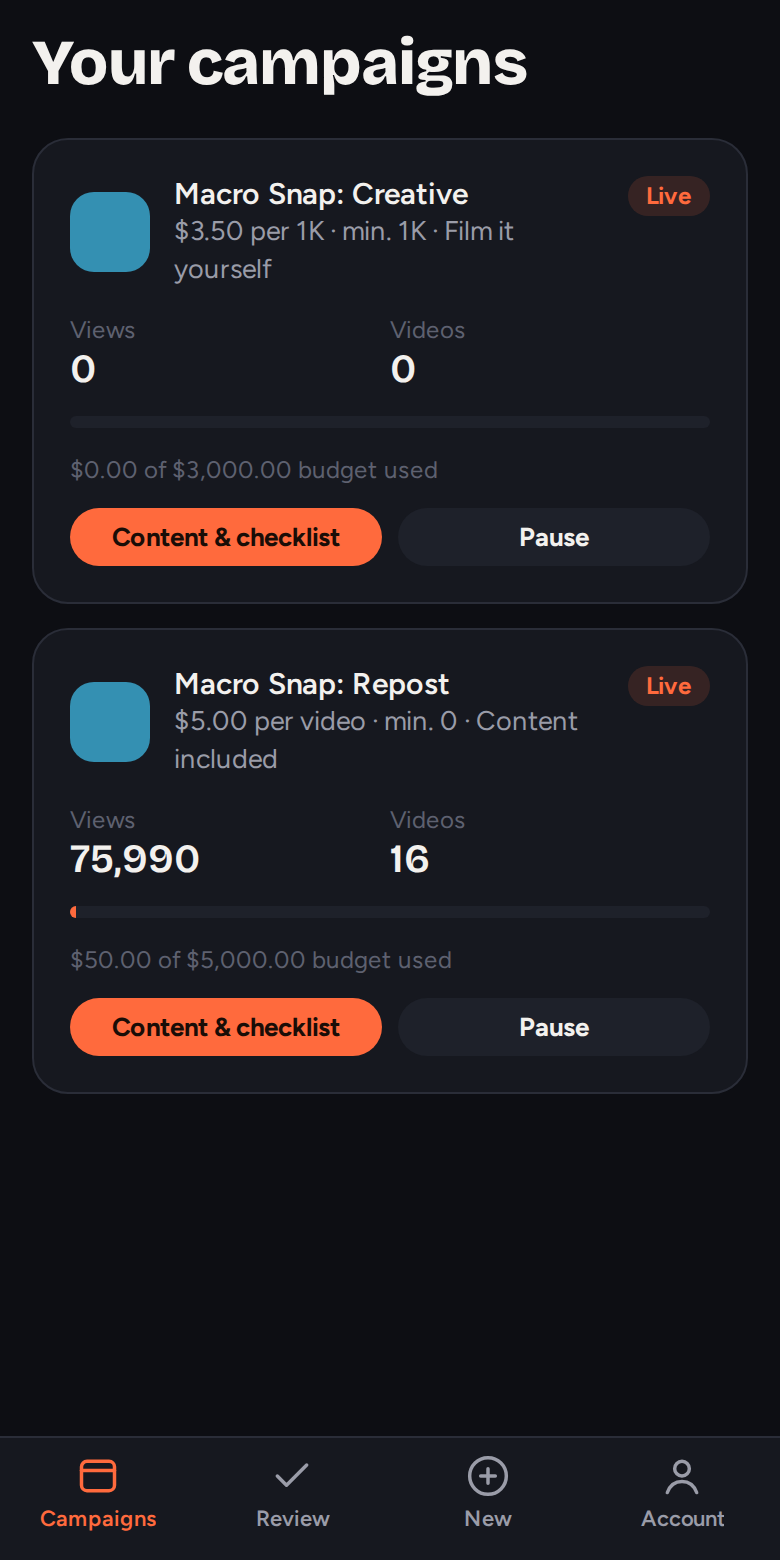
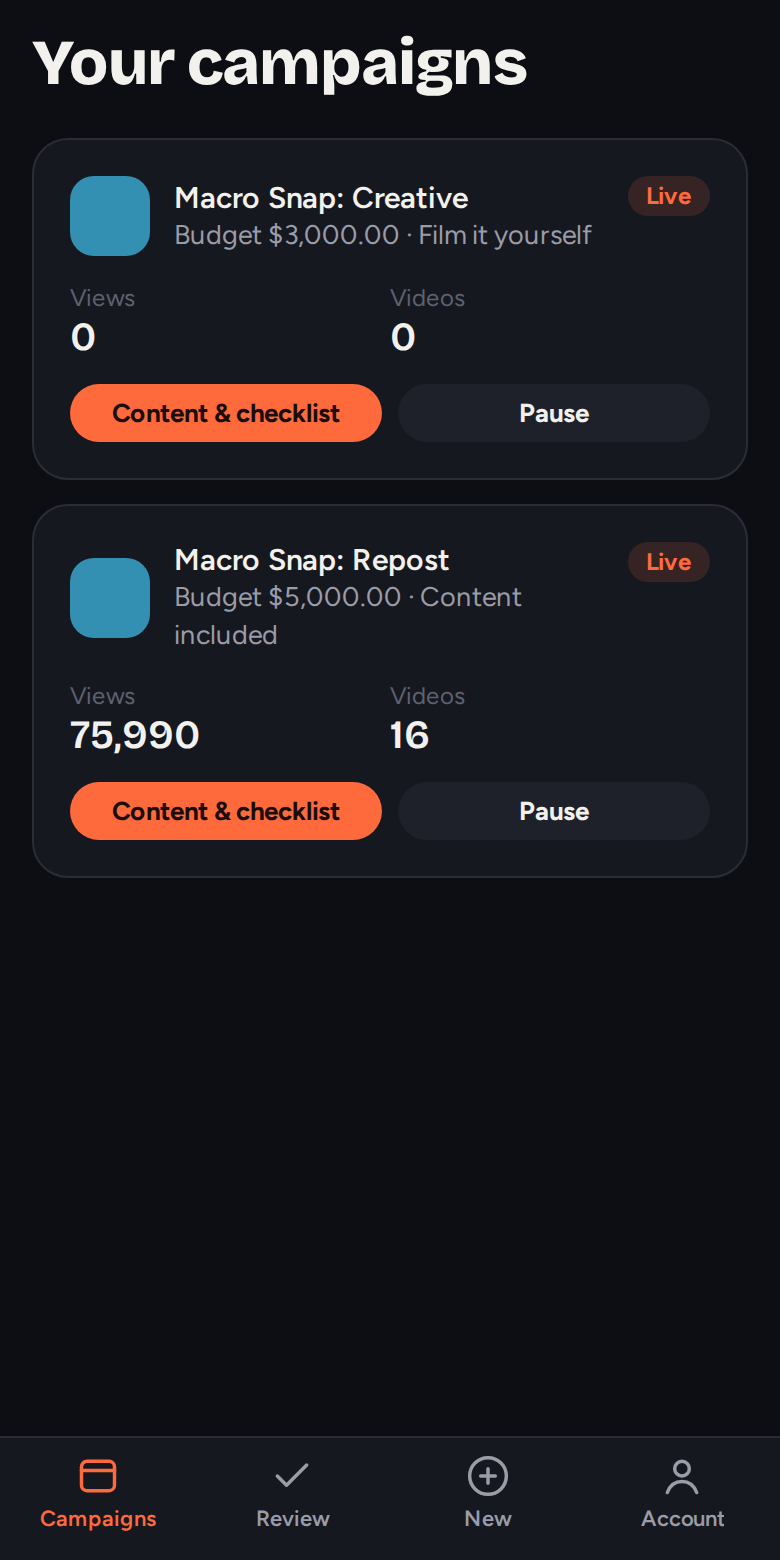
Clients pay one budget: hide creator pay and spend from brands, homepage without rates
- Brand view shows budget, views and videos only; campaign_stats hides
  spent_cents from non-admins (0014)
- Brand campaign requests only ask name, brief and budget; pay is set by admin
- Homepage: 'Let's promote your campaign' instead of pricing, new brand screenshot

Claude-Session: https://claude.ai/code/session_01Uk6NG1gYvfXL5HbW9h3W6R

diff --git a/public/home.html b/public/home.html
@@ -3,11 +3,11 @@
 <head>
 <meta charset="utf-8">
 <meta name="viewport" content="width=device-width, initial-scale=1, viewport-fit=cover">
-<title>Hypiva: TikTok reach for brands, paid per result</title>
-<meta name="description" content="Hypiva's creator network posts your content across many real TikTok accounts. Pay per 1,000 views or a fixed price per video, only for videos you approve.">
+<title>Hypiva: TikTok reach for apps and brands</title>
+<meta name="description" content="Hypiva's creator network posts your content across many real TikTok accounts. You set the budget, we deliver the reach, and you see every view.">
 <meta name="theme-color" content="#0D0E13">
-<meta property="og:title" content="Hypiva: TikTok reach for brands, paid per result">
-<meta property="og:description" content="Real creators. Real views. Pay per result.">
+<meta property="og:title" content="Hypiva: TikTok reach for apps and brands">
+<meta property="og:description" content="Real creators. Real views. One budget.">
 <meta property="og:image" content="https://hypiva.com/landing/og.png">
 <link rel="icon" href="/landing/icon.png">
 <link rel="apple-touch-icon" href="/landing/icon.png">
@@ -128,7 +128,7 @@ footer a:hover{color:var(--text)}
 <nav class="top" aria-label="Main">
   <div class="wrap">
     <a class="brand" href="/"><img src="/landing/icon.png" alt=""><span>hyp<b>iva</b></span></a>
-    <div class="links"><a href="#how">How it works</a><a href="#pricing">Pricing</a><a href="#why">Why Hypiva</a><a href="#creators">Creators</a><a href="#faq">FAQ</a></div>
+    <div class="links"><a href="#how">How it works</a><a href="#work">Work with us</a><a href="#why">Why Hypiva</a><a href="#creators">Creators</a><a href="#faq">FAQ</a></div>
     <a class="login" href="/sign-in">Log in</a>
     <a class="btn primary cta" href="mailto:patrick@hypiva.com?subject=Campaign%20on%20Hypiva">Launch a campaign</a>
   </div>
@@ -138,19 +138,19 @@ footer a:hover{color:var(--text)}
   <div class="wrap hero">
     <div>
       <div class="eyebrow">TikTok reach for apps &amp; brands</div>
-      <h1>Your product on hundreds of feeds. <span class="hl">Pay only for results.</span></h1>
-      <p class="lead">Our creator network posts your content across many real TikTok accounts. You pay per 1,000 views or a fixed price per video, and only for videos you approve.</p>
+      <h1>Your product on hundreds of feeds. <span class="hl">One budget, real reach.</span></h1>
+      <p class="lead">Our creator network posts your content across many real TikTok accounts. You set one campaign budget. We handle the creators, the content and the posting, and you see every view.</p>
       <div class="ctas">
         <a class="btn primary" href="mailto:patrick@hypiva.com?subject=Campaign%20on%20Hypiva">Launch a campaign</a>
         <a class="btn ghost" href="#how">See how it works</a>
       </div>
     </div>
-    <div class="glow"><div class="phone"><img src="/landing/brand-phone.png" alt="The Hypiva brand dashboard: live campaigns with views, videos and budget used" width="390" height="780"></div></div>
+    <div class="glow"><div class="phone"><img src="/landing/brand-phone.png" alt="The Hypiva brand dashboard: live campaigns with views and videos" width="390" height="780"></div></div>
   </div>
 
   <div class="wrap facts" aria-label="Key facts">
-    <div class="fact"><b>Pay per result</b><span>Per 1K views or per video</span></div>
-    <div class="fact"><b>You approve</b><span>Every video, before it counts</span></div>
+    <div class="fact"><b>One budget</b><span>No surprises, no extra costs</span></div>
+    <div class="fact"><b>Quality checked</b><span>Every video is reviewed</span></div>
     <div class="fact"><b>Live tracking</b><span>Views update automatically</span></div>
     <div class="fact"><b>10 languages</b><span>Reach beyond one market</span></div>
   </div>
@@ -159,54 +159,52 @@ footer a:hover{color:var(--text)}
     <div class="wrap">
       <div class="sec-h"><div class="eyebrow">How it works</div><h2>Live in days, not months</h2><p>You bring the product and the message. We handle the creators, the posting and the tracking.</p></div>
       <div class="steps">
-        <div class="step"><div class="n">1</div><h3>Brief &amp; budget</h3><p>Tell us what to promote, your budget and how you want to pay. We turn it into ready-to-post content with captions and hashtags, in every language you need.</p></div>
+        <div class="step"><div class="n">1</div><h3>Brief &amp; budget</h3><p>Tell us what to promote and what you want to spend. We turn it into ready-to-post content with captions and hashtags, in every language you need.</p></div>
         <div class="step"><div class="n">2</div><h3>Creators post</h3><p>Verified creators post your content on their TikTok accounts. Each account gets content it has not posted before, so feeds stay fresh.</p></div>
-        <div class="step"><div class="n">3</div><h3>You see the results</h3><p>Views are tracked automatically on every video. You see views, videos and budget used live, and approve every video before it counts.</p></div>
+        <div class="step"><div class="n">3</div><h3>You see the results</h3><p>Views are tracked automatically on every video. With your own login you see views and videos per campaign, live.</p></div>
       </div>
     </div>
   </section>
 
-  <section id="pricing" style="padding-top:20px">
+  <section id="work" style="padding-top:20px">
     <div class="wrap">
-      <div class="sec-h"><div class="eyebrow">Pricing</div><h2>Two simple ways to pay</h2><p>Pick what fits your campaign. You set a budget, and you never pay for videos you did not approve.</p></div>
+      <div class="sec-h"><div class="eyebrow">Work with us</div><h2>Let's promote your campaign</h2><p>Tell us what you want to promote and what you want to achieve. We come back with a plan: which content, how many creators and which countries.</p></div>
       <div class="plans">
         <div class="plan hot">
-          <span class="tag">Most popular</span>
-          <h3>Per 1,000 views</h3>
-          <p class="muted">You pay for the reach you actually get.</p>
+          <span class="tag">We take care of it</span>
+          <h3>Everything included</h3>
+          <p class="muted">You bring the product. We do the rest.</p>
           <ul>
-            <li>A video counts once it reaches a minimum, for example 1,000 views</li>
-            <li>Views are counted per video, never added up</li>
-            <li>Stops at your budget</li>
+            <li>Creators, content, posting and tracking included</li>
+            <li>Content in every language you need</li>
+            <li>Start small with a test, scale up what works</li>
           </ul>
-          <div class="example">Example: <b>a video with 25,000 views</b> at your rate per 1K. A video with 600 views costs nothing.</div>
         </div>
         <div class="plan">
-          <span class="tag">Predictable</span>
-          <h3>Fixed per video</h3>
-          <p class="muted">A set price for every approved post.</p>
+          <span class="tag">What you get</span>
+          <h3>Reach you can see</h3>
+          <p class="muted">Your own dashboard, live.</p>
           <ul>
-            <li>Know exactly what each post costs</li>
-            <li>Optional minimum views per video</li>
-            <li>Great for launches and volume</li>
+            <li>Views and videos per campaign, updated automatically</li>
+            <li>Every video checked before it counts</li>
+            <li>Pause or extend a campaign any time</li>
           </ul>
-          <div class="example">Example: <b>100 approved videos</b> at a fixed price each, whatever their views.</div>
         </div>
       </div>
-      <p class="muted" style="margin-top:18px">Rates depend on your market and volume. <a href="mailto:patrick@hypiva.com?subject=Pricing%20for%20Hypiva" style="color:var(--accent);font-weight:700">Ask for a quote →</a></p>
+      <div class="ctas" style="margin-top:26px"><a class="btn primary" href="mailto:patrick@hypiva.com?subject=Campaign%20on%20Hypiva">Let's promote your campaign</a></div>
     </div>
   </section>
 
   <section id="why">
     <div class="wrap">
-      <div class="sec-h"><div class="eyebrow">Why Hypiva</div><h2>Built so every dollar is accounted for</h2></div>
+      <div class="sec-h"><div class="eyebrow">Why Hypiva</div><h2>Built so your budget works hard</h2></div>
       <div class="feats">
         <div class="feat"><div class="ic"><svg viewBox="0 0 24 24" fill="none" stroke-width="2" stroke-linecap="round" stroke-linejoin="round"><path d="M12 3l7 3v5c0 5-3.5 8.5-7 10-3.5-1.5-7-5-7-10V6z"/><path d="M9 12l2 2 4-4"/></svg></div><h3>Verified accounts</h3><p>Creators prove they own each TikTok account, and every video is checked against the account it was posted from.</p></div>
         <div class="feat"><div class="ic"><svg viewBox="0 0 24 24" fill="none" stroke-width="2" stroke-linecap="round" stroke-linejoin="round"><path d="M3 17l6-6 4 4 8-8"/><path d="M14 7h7v7"/></svg></div><h3>Automatic view tracking</h3><p>Views are read from TikTok several times a day. No screenshots, no guessing.</p></div>
-        <div class="feat"><div class="ic"><svg viewBox="0 0 24 24" fill="none" stroke-width="2" stroke-linecap="round" stroke-linejoin="round"><path d="M20 6L9 17l-5-5"/></svg></div><h3>You approve every video</h3><p>Nothing counts until it is approved, so off-brand posts never cost you.</p></div>
+        <div class="feat"><div class="ic"><svg viewBox="0 0 24 24" fill="none" stroke-width="2" stroke-linecap="round" stroke-linejoin="round"><path d="M20 6L9 17l-5-5"/></svg></div><h3>Every video checked</h3><p>Each video is reviewed before it counts, so off-brand posts never make it into your results.</p></div>
         <div class="feat"><div class="ic"><svg viewBox="0 0 24 24" fill="none" stroke-width="2" stroke-linecap="round" stroke-linejoin="round"><circle cx="12" cy="12" r="9"/><path d="M3 12h18M12 3a14 14 0 0 1 0 18M12 3a14 14 0 0 0 0 18"/></svg></div><h3>Many languages</h3><p>The same campaign in English, Dutch, German, French, Spanish and more. Each creator posts in their own language.</p></div>
-        <div class="feat"><div class="ic"><svg viewBox="0 0 24 24" fill="none" stroke-width="2" stroke-linecap="round" stroke-linejoin="round"><rect x="3" y="6" width="18" height="14" rx="3"/><path d="M3 10h18"/></svg></div><h3>Budget control</h3><p>Set a budget per campaign and see exactly how much is used. Pause any time.</p></div>
-        <div class="feat"><div class="ic"><svg viewBox="0 0 24 24" fill="none" stroke-width="2" stroke-linecap="round" stroke-linejoin="round"><rect x="4" y="3" width="16" height="18" rx="2"/><path d="M8 8h8M8 12h8M8 16h5"/></svg></div><h3>Clear reporting</h3><p>Views, videos and spend per campaign in one place, with your own brand login.</p></div>
+        <div class="feat"><div class="ic"><svg viewBox="0 0 24 24" fill="none" stroke-width="2" stroke-linecap="round" stroke-linejoin="round"><rect x="3" y="6" width="18" height="14" rx="3"/><path d="M3 10h18"/></svg></div><h3>One clear budget</h3><p>One amount per campaign, agreed up front. Pause or extend whenever you want.</p></div>
+        <div class="feat"><div class="ic"><svg viewBox="0 0 24 24" fill="none" stroke-width="2" stroke-linecap="round" stroke-linejoin="round"><rect x="4" y="3" width="16" height="18" rx="2"/><path d="M8 8h8M8 12h8M8 16h5"/></svg></div><h3>Clear reporting</h3><p>Views and videos per campaign in one place, with your own brand login.</p></div>
       </div>
     </div>
   </section>
@@ -233,9 +231,9 @@ footer a:hover{color:var(--text)}
       <div class="sec-h"><div class="eyebrow">FAQ</div><h2>Questions brands ask</h2></div>
       <div class="faq">
         <details open><summary>What kind of content do creators post?</summary><p>Mostly faceless slideshows and short clips made from your brief. We prepare the content, captions and hashtags, so every post stays on-message.</p></details>
-        <details><summary>How do you make sure views are real?</summary><p>Creators verify ownership of each TikTok account, every video is matched to its account, and views are read directly from TikTok. You approve each video before it counts.</p></details>
-        <details><summary>What does it cost?</summary><p>You choose per 1,000 views or a fixed price per video, with a budget you set. Send us your goals and we come back with a quote.</p></details>
-        <details><summary>Can I see the results myself?</summary><p>Yes. You get your own login with live views, videos and budget used per campaign, and you can pause a campaign any time.</p></details>
+        <details><summary>How do you make sure views are real?</summary><p>Creators verify ownership of each TikTok account, every video is matched to its account, and views are read directly from TikTok. Every video is checked before it counts.</p></details>
+        <details><summary>What does it cost?</summary><p>Every campaign is different. Send us your product and goal, and we come back with a proposal, from a small test to a large launch. Everything is included.</p></details>
+        <details><summary>Can I see the results myself?</summary><p>Yes. You get your own login with live views and videos per campaign, and you can pause a campaign any time.</p></details>
         <details><summary>Which countries and languages?</summary><p>Creators post in their own language, including English, Dutch, German, French, Spanish, Italian, Portuguese, Polish, Turkish and Arabic.</p></details>
       </div>
     </div>

diff --git a/src/components/CampaignStatsCard.tsx b/src/components/CampaignStatsCard.tsx
@@ -4,7 +4,8 @@ import { num, short, usd } from '../lib/format';
 import { colors } from '../lib/theme';
 import { kindLabel, type Campaign, type CampaignStats } from '../lib/types';
 
-export function CampaignStatsCard({ c, stats, onToggle, onOpen, onEditPay }: { c: Campaign; stats?: CampaignStats; onToggle?: () => void; onOpen?: () => void; onEditPay?: () => void }) {
+/** A campaign with its numbers. forBrand hides what creators are paid: clients see reach, not our costs. */
+export function CampaignStatsCard({ c, stats, onToggle, onOpen, onEditPay, forBrand }: { c: Campaign; stats?: CampaignStats; onToggle?: () => void; onOpen?: () => void; onEditPay?: () => void; forBrand?: boolean }) {
   const spent = stats?.spent_cents ?? 0;
   const pct = Math.min(100, (spent / c.budget_cents) * 100);
   return (
@@ -13,7 +14,7 @@ export function CampaignStatsCard({ c, stats, onToggle, onOpen, onEditPay }: { c
         <View style={{ width: 40, height: 40, borderRadius: 12, backgroundColor: hueFor(c.brand_id) }} />
         <View style={{ flex: 1 }}>
           <T variant="bodyStrong">{c.name}</T>
-          <T variant="muted">{c.fixed_cents != null ? `${usd(c.fixed_cents)} per video` : `${usd(c.cpm_cents)} per 1K`} · min. {short(c.min_views)} · {kindLabel(c.kind)}</T>
+          <T variant="muted">{forBrand ? `Budget ${usd(c.budget_cents)} · ${kindLabel(c.kind)}` : `${c.fixed_cents != null ? `${usd(c.fixed_cents)} per video` : `${usd(c.cpm_cents)} per 1K`} · min. ${short(c.min_views)} · ${kindLabel(c.kind)}`}</T>
         </View>
         <Pill kind={c.status} />
       </Pressable>
@@ -21,14 +22,19 @@ export function CampaignStatsCard({ c, stats, onToggle, onOpen, onEditPay }: { c
         <View style={{ flex: 1 }}><T variant="small">Views</T><T variant="h2">{num(stats?.views ?? 0)}</T></View>
         <View style={{ flex: 1 }}><T variant="small">Videos</T><T variant="h2">{stats?.videos ?? 0}</T></View>
       </View>
+      {forBrand ? null : (
+        <>
       <View style={{ height: 6, backgroundColor: colors.surface2, borderRadius: 6, overflow: 'hidden' }}>
         <View style={{ width: `${pct}%`, height: '100%', backgroundColor: colors.accent }} />
       </View>
       <T variant="small">{usd(spent)} of {usd(c.budget_cents)} budget used</T>
+        </>
+      )}
       <View style={{ flexDirection: 'row', gap: 8 }}>
         {onOpen ? <Button small style={{ flex: 1 }} title="Content & checklist" onPress={onOpen} /> : null}
         {onEditPay ? <Button small style={{ flex: 1 }} kind="ghost" title="Pay & budget" onPress={onEditPay} /> : null}
-        {onToggle ? <Button small style={{ flex: 1 }} kind="ghost" title={c.status === 'live' ? 'Pause' : 'Make live'} onPress={onToggle} /> : null}
+        {onToggle && (!forBrand || c.status === 'live') ? <Button small style={{ flex: 1 }} kind="ghost" title={c.status === 'live' ? 'Pause' : 'Make live'} onPress={onToggle} /> : null}
+        {forBrand && c.status !== 'live' ? <T variant="small" style={{ flex: 1, alignSelf: 'center' }}>The Hypiva team makes it live.</T> : null}
       </View>
     </Card>
   );

diff --git a/src/components/CampaignForm.tsx b/src/components/CampaignForm.tsx
@@ -28,14 +28,14 @@ export function CampaignForm({ brandId, brands, onDone }: { brandId?: string | n
     setError(null);
     if (!brand) return setError('Pick a brand first.');
     if (!name.trim() || !desc.trim()) return setError('Add a name and tell creators what to post.');
-    if (payType === 'views' && !cpmCents) return setError('Enter what you pay per 1,000 views, for example 2.00.');
-    if (payType === 'video' && !fixedCents) return setError('Enter what you pay per video, for example 5.00.');
+    if (brands && payType === 'views' && !cpmCents) return setError('Enter what you pay per 1,000 views, for example 2.00.');
+    if (brands && payType === 'video' && !fixedCents) return setError('Enter what you pay per video, for example 5.00.');
     if (!budgetCents || budgetCents < 5000) return setError('The budget has to be at least $50.');
     setBusy(true);
     const { error: e } = await supabase.from('campaigns').insert({
       status: brands ? 'live' : 'paused',
       brand_id: brand, name: name.trim(), description: desc.trim(), kind,
-      cpm_cents: cpmCents ?? 200, fixed_cents: payType === 'video' ? fixedCents : null,
+      cpm_cents: (brands ? cpmCents : null) ?? 200, fixed_cents: brands && payType === 'video' ? fixedCents : null,
       budget_cents: budgetCents, min_views: Number.isFinite(min) ? min : 1000,
     });
     setBusy(false);
@@ -60,8 +60,15 @@ export function CampaignForm({ brandId, brands, onDone }: { brandId?: string | n
         <T variant="label">Type</T>
         <Chips value={kind} onChange={setKind} options={[{ value: 'ready_to_post', label: 'Content included' }, { value: 'create_your_own', label: 'Film it yourself' }]} />
       </View>
-      <PayFields payType={payType} setPayType={setPayType} cpm={cpm} setCpm={setCpm} fixed={fixed} setFixed={setFixed}
-        budget={budget} setBudget={setBudget} minViews={minViews} setMinViews={setMinViews} />
+      {brands ? (
+        <PayFields payType={payType} setPayType={setPayType} cpm={cpm} setCpm={setCpm} fixed={fixed} setFixed={setFixed}
+          budget={budget} setBudget={setBudget} minViews={minViews} setMinViews={setMinViews} />
+      ) : (
+        <>
+          <Field label="Budget ($)" value={budget} onChangeText={setBudget} keyboardType="decimal-pad" hint="What you want to spend on this campaign. We plan the creators and posts around it." />
+          <T variant="small">After you send it, the Hypiva team checks the campaign and makes it live.</T>
+        </>
+      )}
       {error ? <T variant="muted" style={{ color: '#FF5C7A' }}>{error}</T> : null}
       <Button title="Launch campaign" onPress={create} busy={busy} />
     </Card>

diff --git a/src/app/(brand)/campaigns.tsx b/src/app/(brand)/campaigns.tsx
@@ -27,7 +27,7 @@ export default function BrandCampaigns() {
       <Screen title="Your campaigns" onRefresh={q.refresh} refreshing={q.refreshing}>
         {q.error ? <ErrorNote text={q.error} onRetry={q.reload} /> : null}
         {!q.data ? (q.error ? null : <Loading />) : q.data.campaigns.length ? q.data.campaigns.map((c) => (
-          <CampaignStatsCard key={c.id} c={c} stats={q.data!.stats.get(c.id)} onToggle={() => toggle(c)}
+          <CampaignStatsCard forBrand key={c.id} c={c} stats={q.data!.stats.get(c.id)} onToggle={() => toggle(c)}
             onOpen={() => router.push({ pathname: '/manage/[id]', params: { id: c.id } })} />
         )) : <Card><Empty text="No campaigns yet." action={<LinkButton title="Create your first campaign" onPress={() => router.push('/(brand)/new')} />} /></Card>}
       </Screen>

diff --git a/SETUP.md b/SETUP.md
@@ -10,7 +10,7 @@ Je hoeft niet te programmeren. Volg de stappen in deze volgorde.
    - Kies een sterk database-wachtwoord en bewaar het goed.
 2. Open in je project **SQL Editor** → **New query**.
 3. Open het bestand `supabase/migrations/0001_init.sql`, kopieer alles, plak het erin en klik op **Run**.
-   Doe daarna hetzelfde met `0002_referrals.sql` (uitnodigingen) en `0003_rates_and_weeks.sql` (eigen tarieven en weekoverzicht) `0004_bonuses_and_leaderboard.sql` (bonussen en ranglijst) `0005_exchange_rate.sql` (euro-bedragen), `0006_content.sql` (kant-en-klare content) en `0007_privacy_hardening.sql` (extra beveiliging), `0008_lock_functions.sql`, `0009_auto_views.sql` (automatische views), `0010_pay_models_and_languages.sql` (betaalvorm en taal), `0011_creator_language.sql` (taal per creator), `0012_owner_verify_signups.sql` (eigenaar, verificatie, meldingen) en `0013_fix_period_start.sql`, in die volgorde.
+   Doe daarna hetzelfde met `0002_referrals.sql` (uitnodigingen) en `0003_rates_and_weeks.sql` (eigen tarieven en weekoverzicht) `0004_bonuses_and_leaderboard.sql` (bonussen en ranglijst) `0005_exchange_rate.sql` (euro-bedragen), `0006_content.sql` (kant-en-klare content) en `0007_privacy_hardening.sql` (extra beveiliging), `0008_lock_functions.sql`, `0009_auto_views.sql` (automatische views), `0010_pay_models_and_languages.sql` (betaalvorm en taal), `0011_creator_language.sql` (taal per creator), `0012_owner_verify_signups.sql` (eigenaar, verificatie, meldingen) `0013_fix_period_start.sql` en `0014_hide_costs_from_brands.sql`, in die volgorde.
    Nu staan alle tabellen, beveiligingsregels en de berekening per video klaar.
 4. Ga naar **Project Settings → API** en kopieer:
    - **Project URL**
@@ -182,3 +182,8 @@ Klaar. De knop **Translate** werkt dan meteen. Zonder sleutel kun je de talen ge
 - **hypiva.com** is de homepage voor klanten (merken), met een knop die je mailt op patrick@hypiva.com. Tekst en plaatjes staan in `public/home.html` en `public/landing/`. Vraag Claude om ze aan te passen.
 - De app zit op **hypiva.com/sign-in**. Creators melden zich aan via **Start earning**.
 - Supabase: zet onder **Authentication → URL Configuration** de **Site URL** op `https://hypiva.com` en voeg bij **Redirect URLs** `https://hypiva.com/**` toe. Dan werken de links in de mails voor account bevestigen en wachtwoord vergeten.
+
+## Klanten betalen een budget
+- Klanten (merken) spreken met jou één budget per campagne af, bijvoorbeeld $40.000. Daaruit betaal jij de creators.
+- Klanten zien in de app alleen hun **budget, views en video's**. Ze zien niet wat creators per video of per 1.000 views krijgen, en ook niet hoeveel daarvan al naar creators is gegaan. Dat is jouw marge.
+- Vraagt een klant zelf een campagne aan, dan vult hij alleen naam, uitleg en budget in. Jij stelt daarna onder **Campaigns → Pay & budget** in wat creators krijgen, en zet de campagne live.
